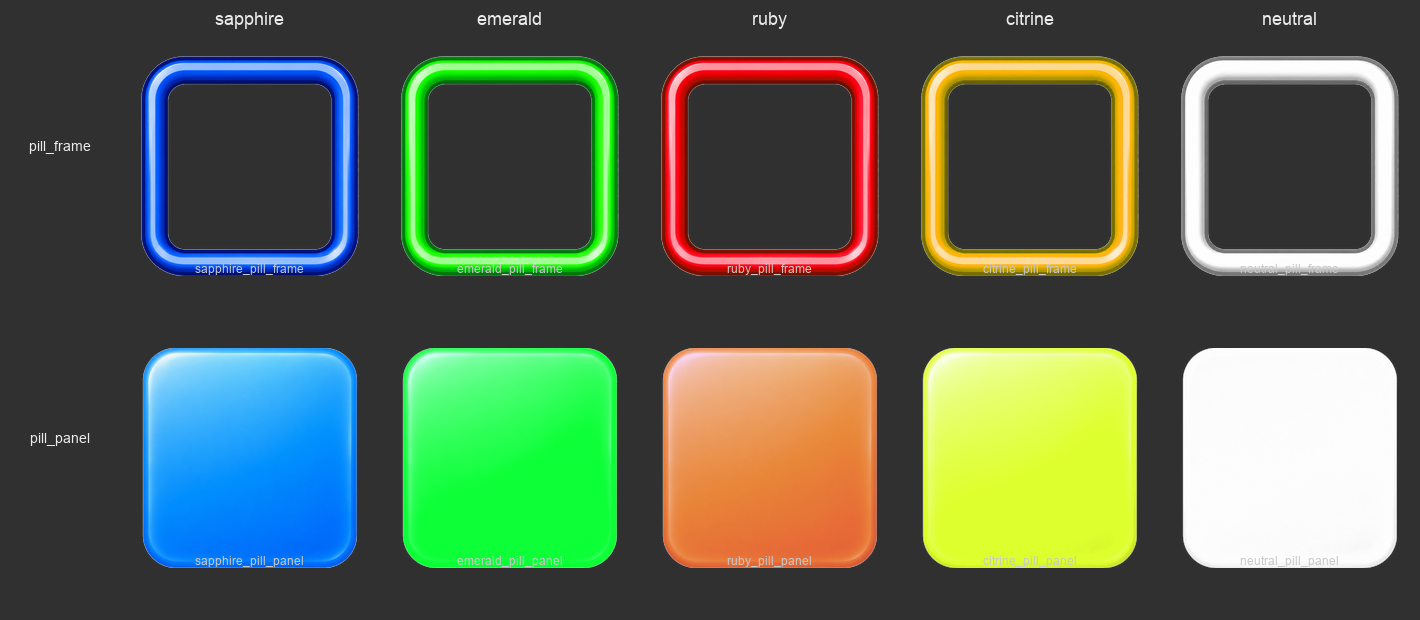
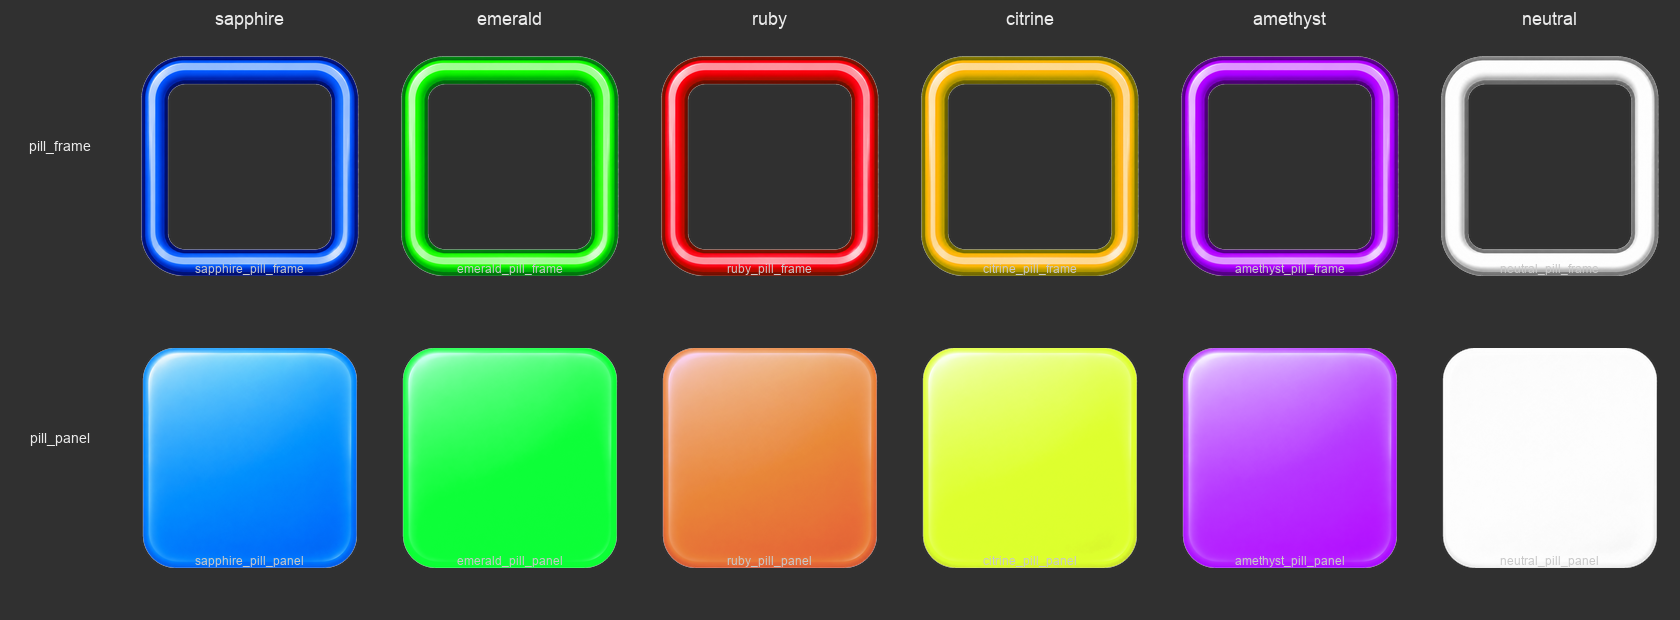
[game] HUD P3: square Farm Off + Edit buttons stacked inside the power-bar frame
Farm Off is now a square (bottom-left) instead of a tall full-height bar, and Edit
is the same square directly above it (top row) — both rounded, both inside the new
blue frame instead of Edit poking out the top-left corner. Behaviour unchanged.
Verified live. CI green.

diff --git a/scripts/recolor_blue_to_green.py b/scripts/recolor_blue_to_green.py
@@ -28,7 +28,10 @@ After adding icons to assets/ui/blue_icons, recolor all five sets then rebuild s
   python3 scripts/recolor_blue_to_green.py assets/ui/blue_icons assets/ui/green_icons --color green
   python3 scripts/recolor_blue_to_green.py assets/ui/blue_icons assets/ui/red_icons --color red
   python3 scripts/recolor_blue_to_green.py assets/ui/blue_icons assets/ui/yellow_icons --color yellow
+  python3 scripts/recolor_blue_to_green.py assets/ui/blue_icons assets/ui/purple_icons --color purple
   python3 scripts/recolor_blue_to_green.py assets/ui/blue_icons assets/ui/white_icons --mode white
+  python3 scripts/recolor_blue_to_green.py assets/ui/pill_frames_blue assets/ui/pill_frames_purple --color purple --mode channel
+  python3 scripts/recolor_blue_to_green.py assets/ui/ring_frames_blue assets/ui/ring_frames_purple --color purple --mode hue
   python3 scripts/build_icon_contact_sheet.py --rebuild-from assets/ui/blue_icons
   python3 scripts/build_icon_contact_sheet.py --all-colors
 """
@@ -47,6 +50,7 @@ COLOR_DEFAULTS = {
     "red": "_red",
     "amber": "_amber",
     "yellow": "_yellow",
+    "purple": "_purple",
 }
 
 # Target hues on a 0-1 scale (HSV). Blue source art centers around ~0.62 (222°).
@@ -55,6 +59,7 @@ TARGET_HUES = {
     "red": 0.0,      # ~0° dark red
     "amber": 0.11,   # ~40° gold
     "yellow": 0.13,  # ~47° dark yellow
+    "purple": 0.77,  # ~277° violet (matches leveling.lua purple patch)
 }
 
 SOURCE_HUE = 0.62
@@ -70,7 +75,7 @@ def parse_args() -> argparse.Namespace:
     )
     parser.add_argument(
         "--color",
-        choices=["green", "red", "amber", "yellow"],
+        choices=["green", "red", "amber", "yellow", "purple"],
         default="green",
         help="Target color (default: green)",
     )
@@ -204,6 +209,10 @@ def recolor_blue_channel(
         red[recolor] = np.clip(red[recolor] + blue_excess[recolor] * 0.88, 0, 255)
         green[recolor] = np.clip(green[recolor] + blue_excess[recolor] * 0.58, 0, 255)
         blue[recolor] = np.clip(blue[recolor] - blue_excess[recolor] * 0.82, 0, 255)
+    elif color == "purple":
+        red[recolor] = np.clip(red[recolor] + blue_excess[recolor] * 0.72, 0, 255)
+        green[recolor] = np.clip(green[recolor] - blue_excess[recolor] * 0.35, 0, 255)
+        blue[recolor] = np.clip(blue[recolor] + blue_excess[recolor] * 0.12, 0, 255)
 
     rgba[:, :, 0] = red
     rgba[:, :, 1] = green

diff --git a/scripts/build_ring_contact_sheet.py b/scripts/build_ring_contact_sheet.py
@@ -47,7 +47,7 @@ RING_FRAMES = {
 }
 
 RING_ORDER = list(RING_FRAMES.keys())
-COLOR_ORDER = ["white", "blue", "green", "red", "yellow"]
+COLOR_ORDER = ["white", "blue", "green", "red", "yellow", "purple"]
 
 
 def load_font(size: int) -> ImageFont.FreeTypeFont | ImageFont.ImageFont: